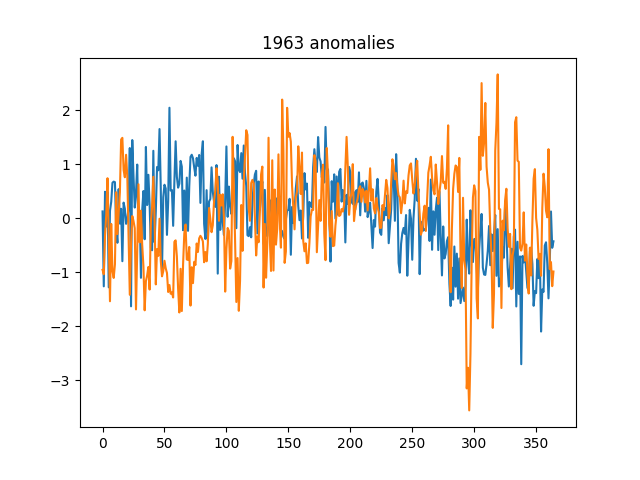
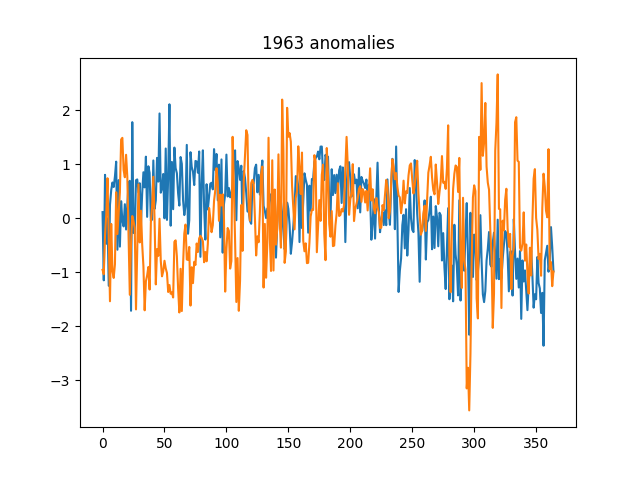
correlation values python

diff --git a/tester.py b/tester.py
@@ -39,9 +39,14 @@ tau_max=200
 # loc = "India"
 # outx, outy = 30, 24
 
-year = 2010
+year = 1972
 loc = "Australia"
 outx, outy = 57, 45
+
+# year = 1963
+# loc = "Sea of Okhotsk"
+# outx, outy = 59, 14
+
 
 print(loc, lon[outx], lat[outy])
 
@@ -83,14 +88,16 @@ C[:,:,3] = np.std(temp, axis=2)
 
 M = reformat_c(C, T_out)
 
-inx, iny = 89, 35
+inx, iny = 92, 36
 
-# fig = plt.figure()
-# plt.title(f"{year} anomalies")
-# plt.plot(T1[start_date:start_date+365,iny,inx])
-# plt.plot(T1[start_date:start_date+365,outy,outx])
-# plt.savefig(f"./CNW-plots/{year}-anomalies.png")
-# plt.show()
+print("in-location", lon[inx], lat[iny])
+
+fig = plt.figure()
+plt.title(f"{year} anomalies at {loc}, {outx*2.5}° lon {87.5-outy*2.5}° lat")
+plt.plot(T1[start_date:start_date+365,iny,inx])
+plt.plot(T1[start_date:start_date+365,outy,outx])
+plt.savefig(f"./CNW-plots/{year}-{loc}-anomalies.png")
+plt.show()
 
 outind = list(
     set(
@@ -104,15 +111,21 @@ inind = list(
     ).intersection(set(np.where(T_in[:,-1]==iny)[0]))
 )[0]
 
+print(
+    "out location", T_out[outind, -2]*2.5, 87.5-T_out[outind, -1]*2.5, "\n in location", T_in[inind, -2]*2.5, 87.5-T_in[inind, -1]*2.5
+)
+
 # fig = plt.figure()
 # plt.title(f"{year} crosscoef progression")
+# plt.ylim([-0.5,0.6])
 # for i in range(57):
-#     plt.plot(np.arange(-200,201),temp[i,outind,::-1])
-# plt.savefig(f"./CNW-plots/{year}-crosscoef-progression.png")
+#     plt.plot(np.arange(-200,201),temp[i,outind,::-1],linewidth=0.4)
+# # plt.savefig(f"./CNW-plots/{year}-crosscoef-progression.png")
 # plt.show()
 
 fig = plt.figure()
 plt.title(f"{year} crosscoef in {loc}")
+plt.ylim([-0.4,0.4])
 plt.plot(np.arange(-200,201),temp[inind,outind,:])
 plt.savefig(f"./CNW-plots/{year}-crosscoef-{loc}.png")
 plt.show()
